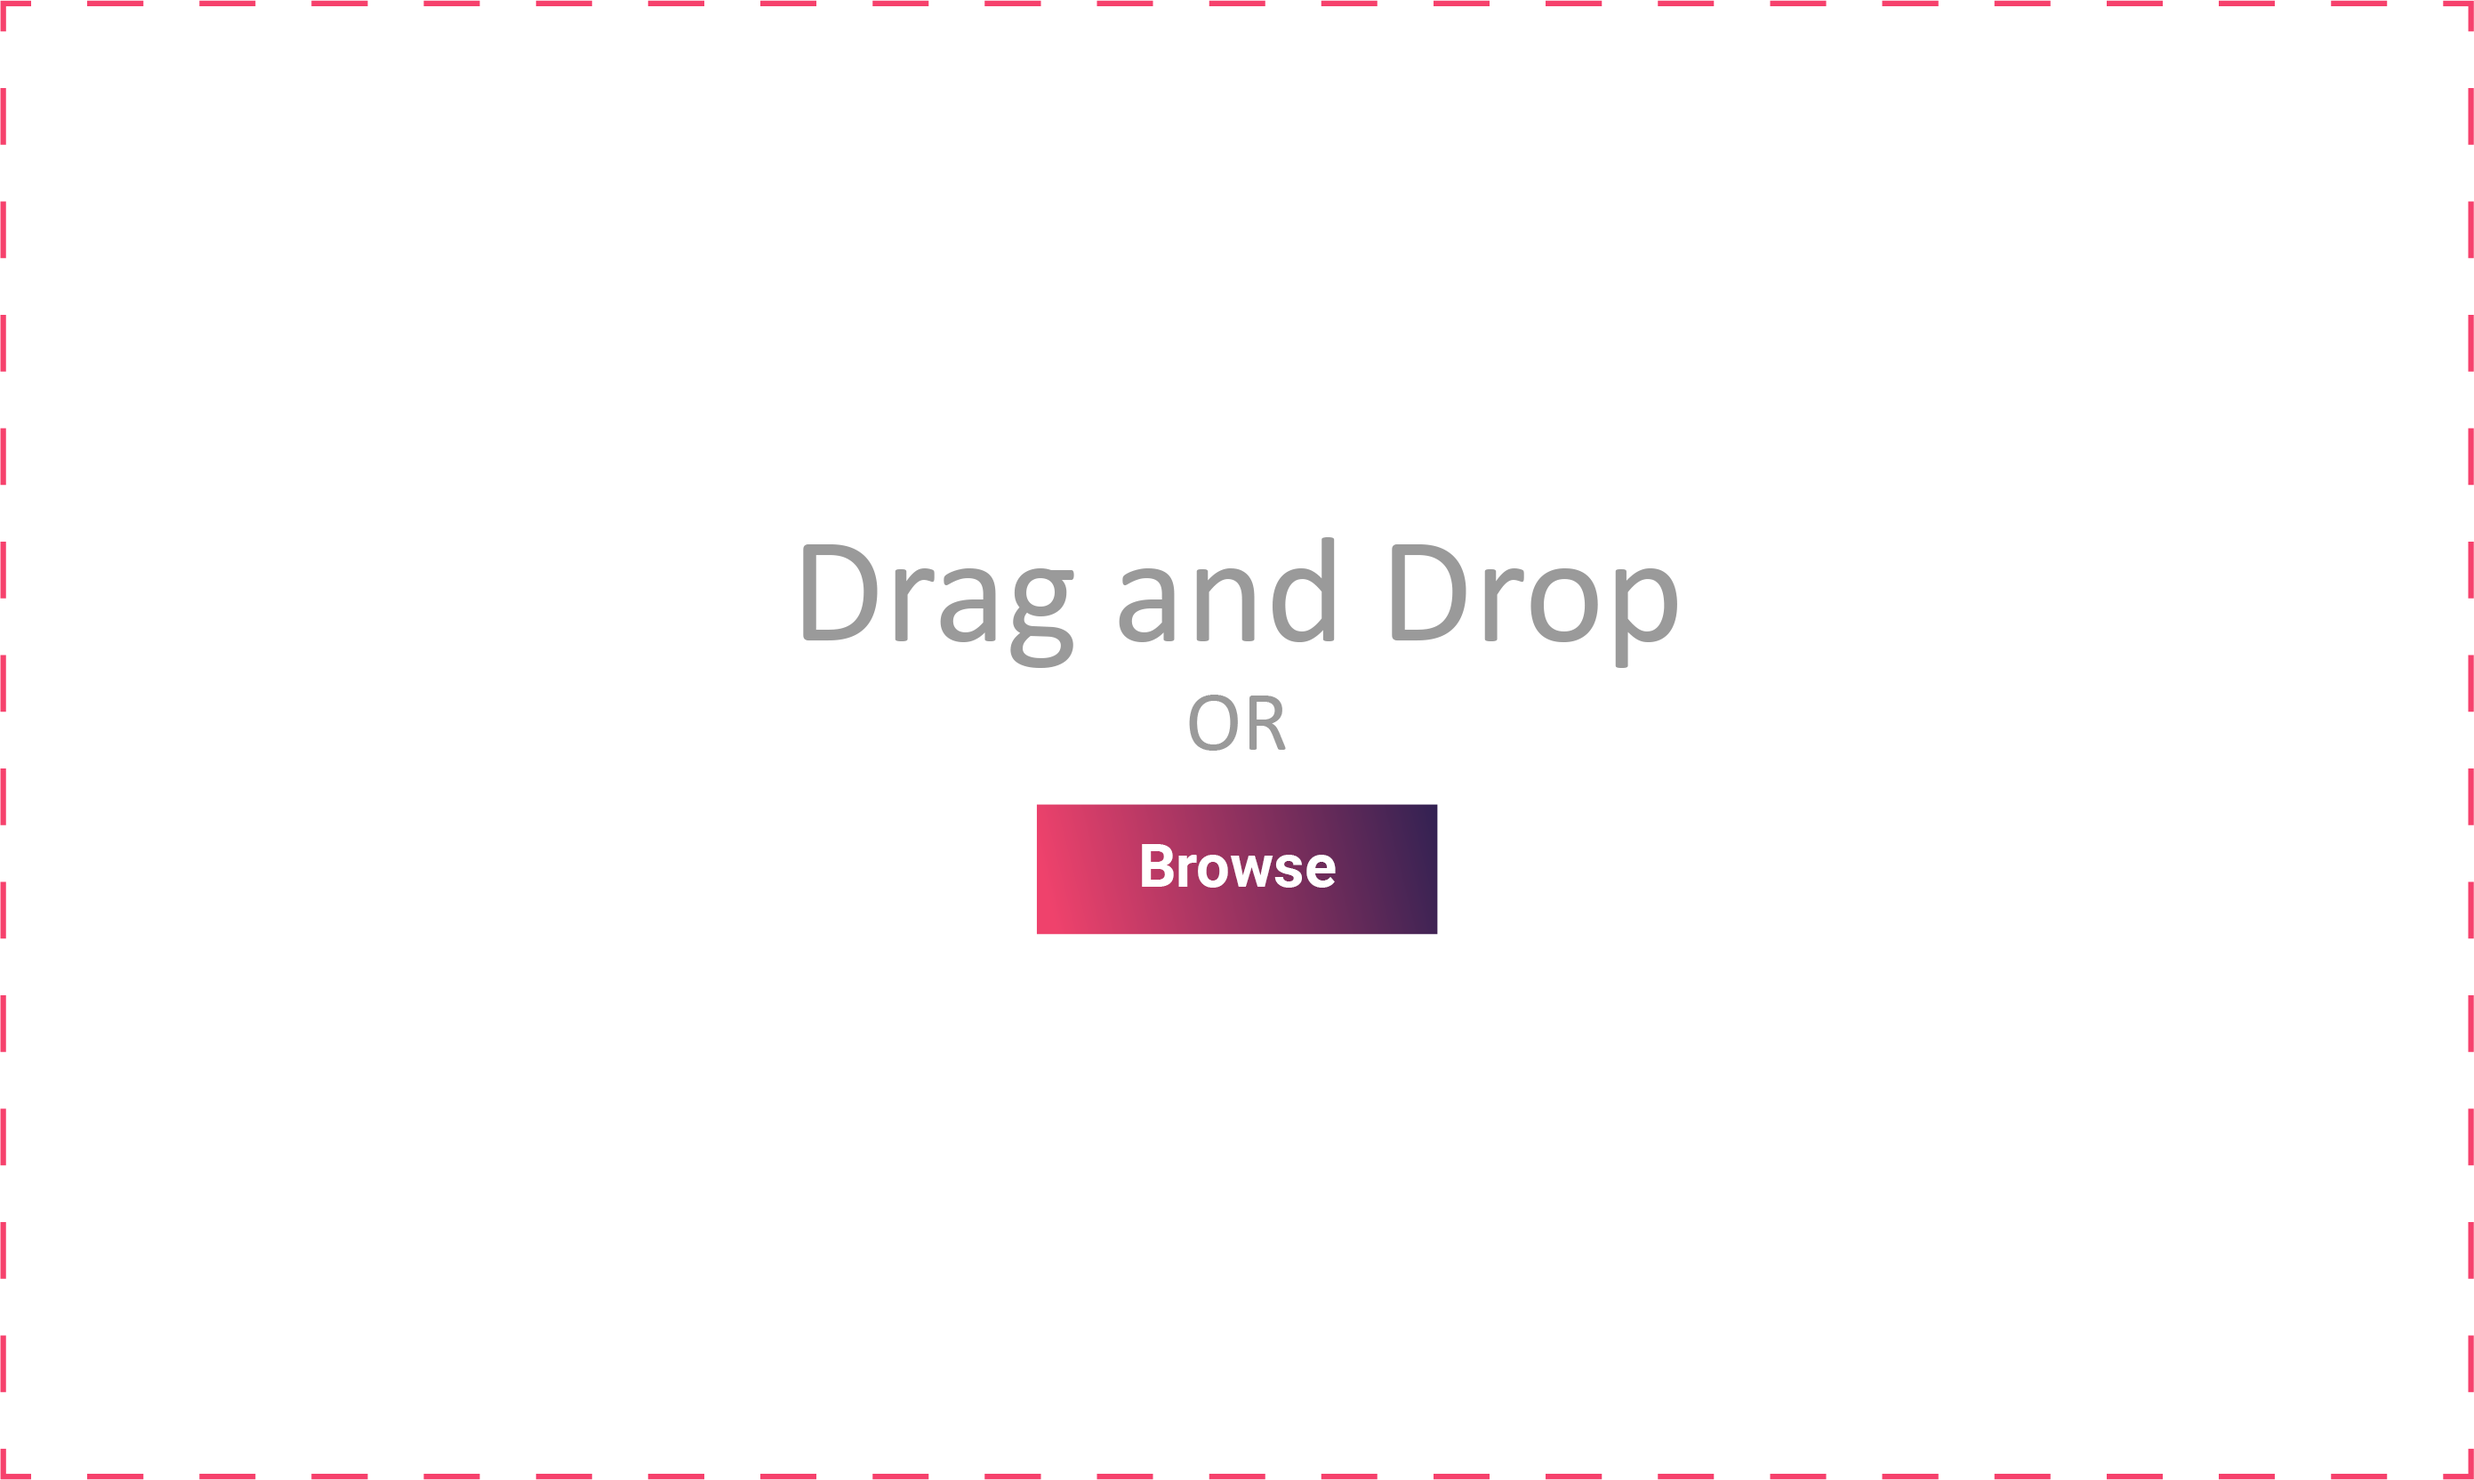
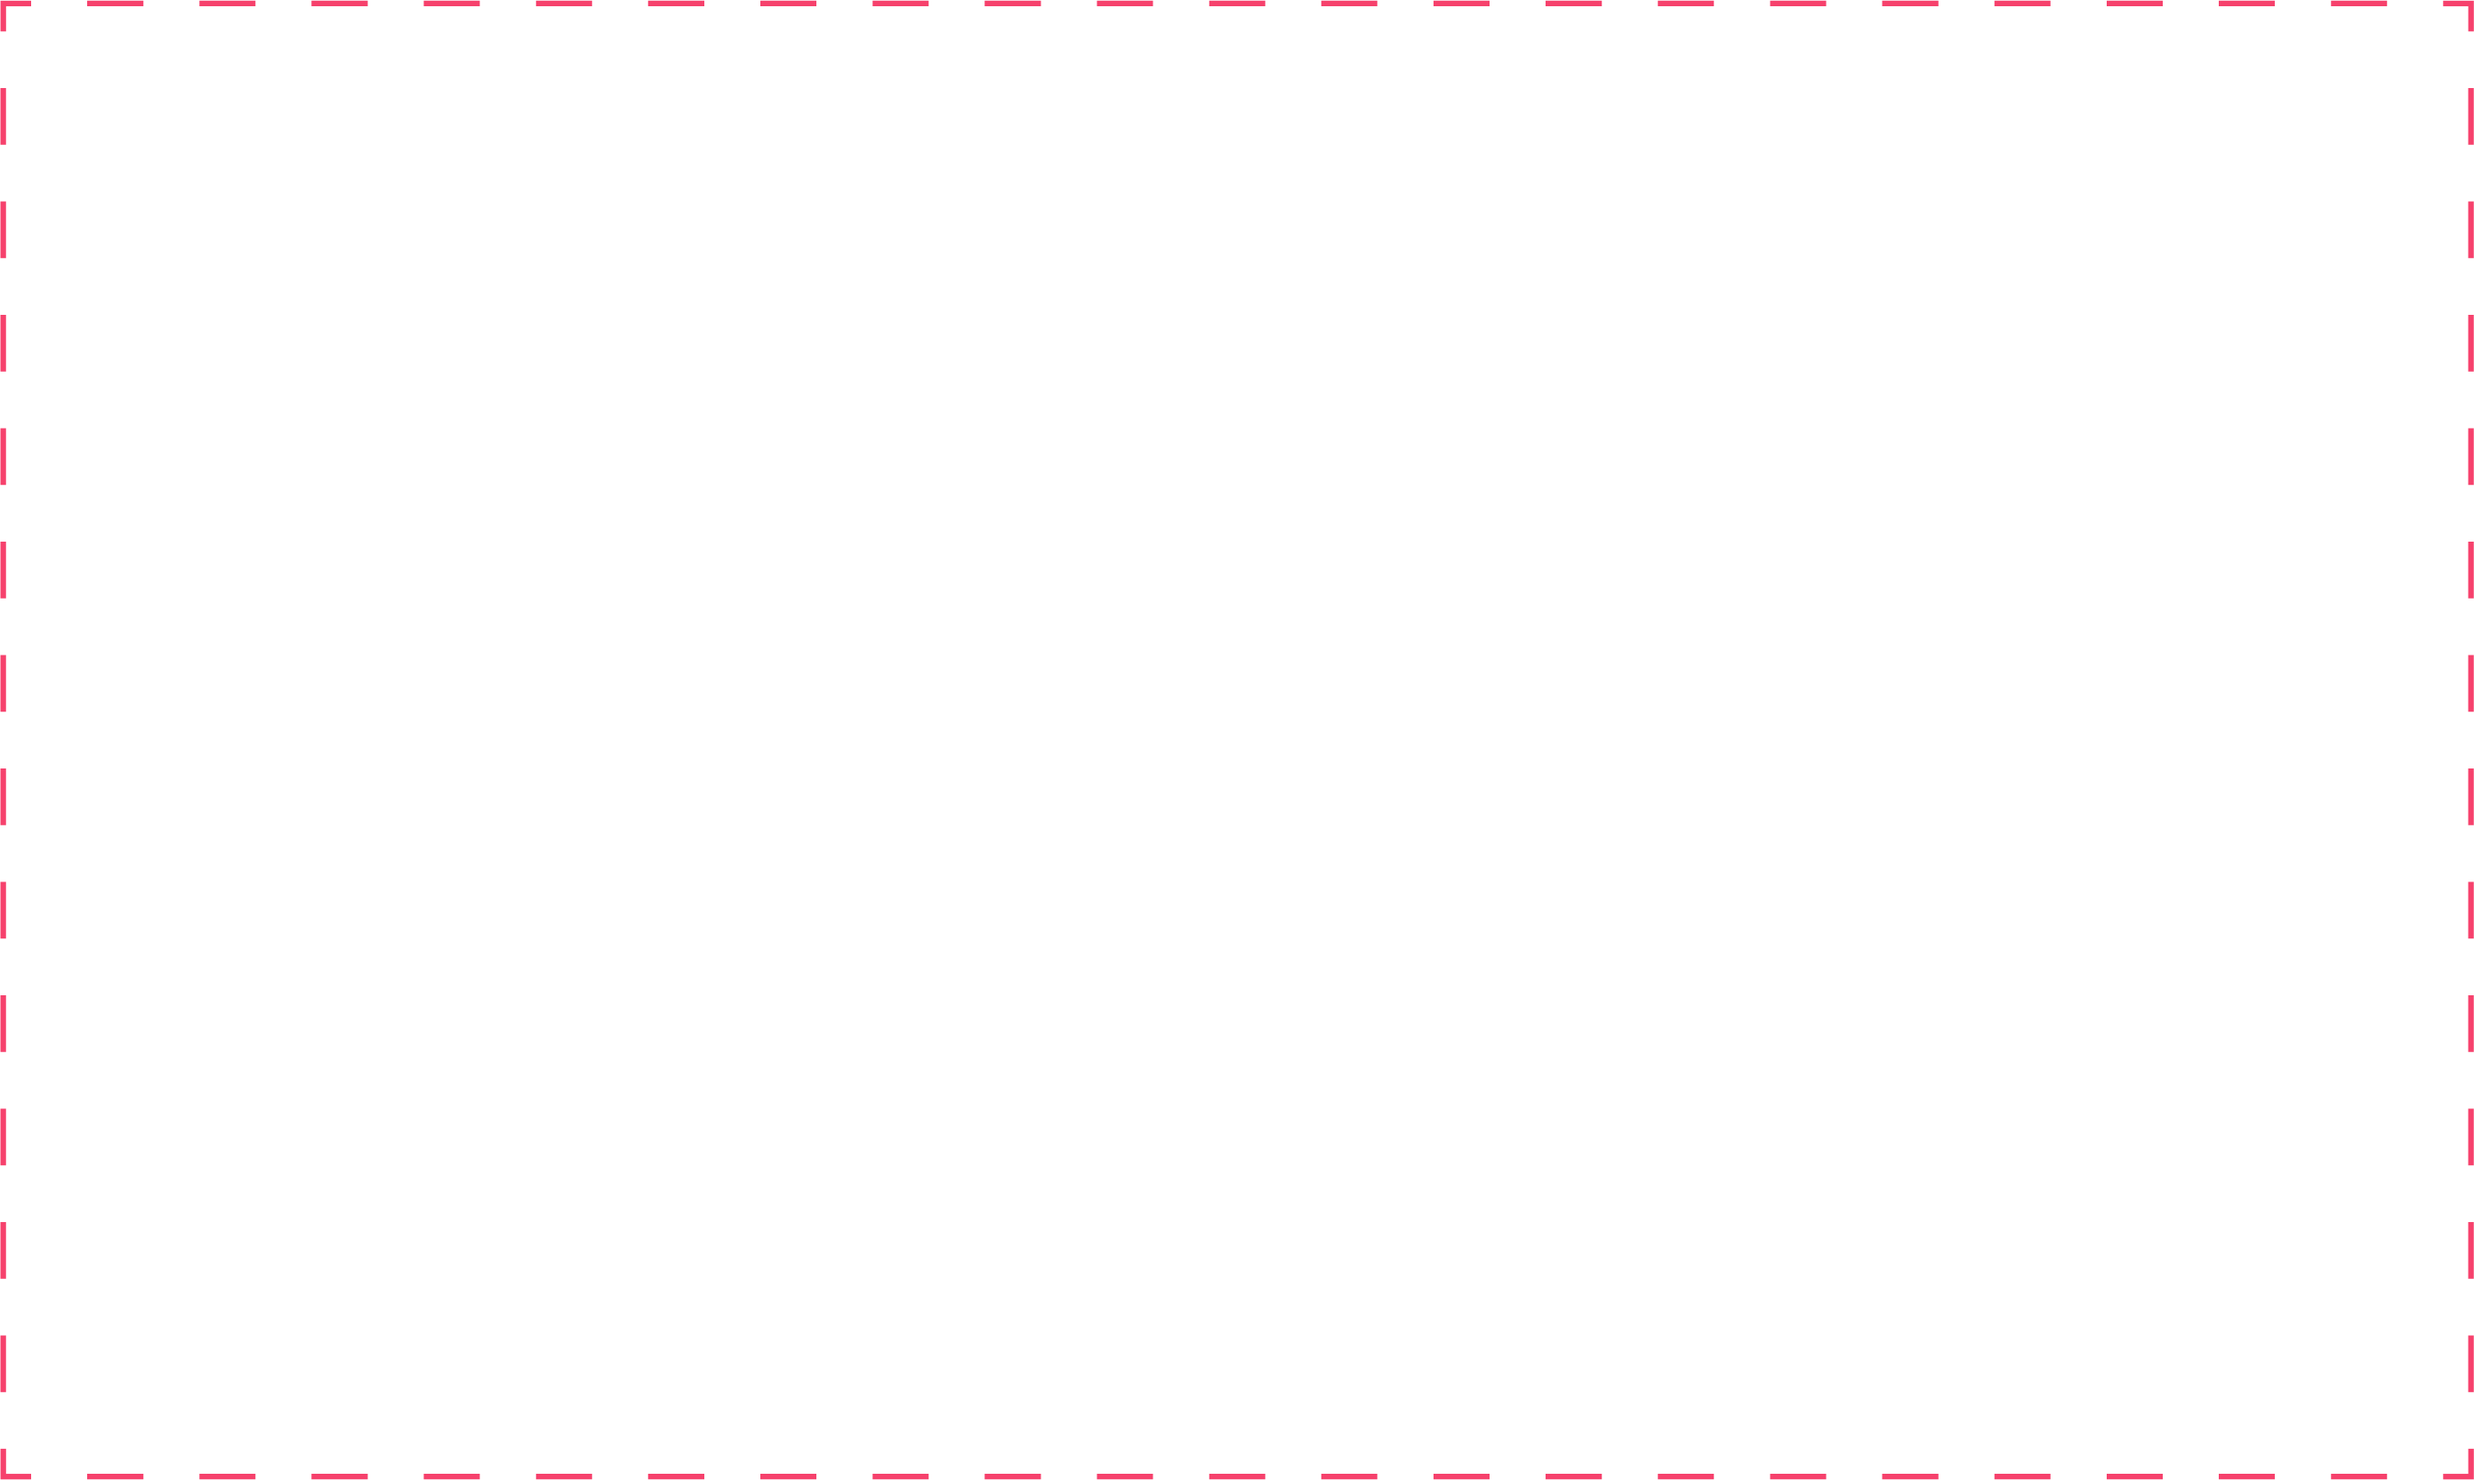
Step11

Changed region(s): [[0.3091, 0.3438, 0.6801, 0.4688], [0.4019, 0.5312, 0.5873, 0.6562], [0.4637, 0.4688, 0.5255, 0.5]]

diff --git a/src/components/listing-create.js b/src/components/listing-create.js
@@ -273,6 +273,14 @@ class ListingCreate extends Component {
     }
 
     componentWillMount() {
+
+        guestService.getGuesterInfo(window.address).then((data)=>{
+          if(data)
+            {
+                console.log(data.user)
+                this.setState({ user:data.user });
+            }
+        });
         
         this.setState({
             state:this.state.languagelist=window.languagelist,
@@ -1038,7 +1046,6 @@ class ListingCreate extends Component {
              </div>
              </div>
              </div>
-
         }
 
         {
@@ -1560,10 +1567,10 @@ class ListingCreate extends Component {
               <span className="bjpink"></span>
               <span></span>
               <span></span>
-              <p>Step 2: Set the scene</p>
+              <p>{language.Step} 2: {language.Set_the_scene}</p>
             </div>
 
-               <h1>Show travellers what your space looks like
+               <h1>{language.Show_travellers_what_your_space_looks_like}
                 <img src="../images/photoi.png" onClick={(e) => {if(this.state.Rapair == 0 )this.setState({Rapair:1});else this.setState({Rapair:0});}}/>
               </h1>
 
@@ -1571,24 +1578,24 @@ class ListingCreate extends Component {
                   <span onClick={(e) => {if(this.state.Rapair == 0 )this.setState({Rapair:1});else this.setState({Rapair:0});}}>×</span>
                   <ul>
                       <img src="../images/step2_2.png" />
-                      <li>Many hosts have at least 8 photos. You can start with just one photo and come back later to add more. Including photos of all the spaces a guest can use helps guests imagine staying at your place.</li>
+                      <li>{language.Many_hosts_have_at_least_8photos}</li>
                       <img src="../images/step2_1.png" />
-                      <li>Make sure the room is well-lit. Or take photos during daylight hours.</li>
-                      <li>Sometimes shooting from a corner (instead of straight-on) gives you a better shot.</li>
+                      <li>{language.Make_sure_the_room_is_well_lit}</li>
+                      <li>{language.Sometimes_shooting_from_a_corner}</li>
                   </ul>
               </div>
               
               <div className="photos" onChange={(e) => this.setState({step:this.STEP.Step2_2})}>
                  <div className="photosipt">
+                    <h3>{language.Drag_and_Drop}<p>{language.OR}</p><button>{language.Browse}</button></h3>
                     <img src="../images/addphoto.png" alt=""/>
                     <input className="btn btn-default btn-lg bg-pink color-white Fileipt" type="file" onChange={this.fileChangedHandler}/>
                  </div>
               </div>
-
              
             <div className="STEPBTN">
-              <button className="btn btn-default btn-lg bg-pink color-white Left" onClick={this.preStep}>Back</button>
-              <button className="btn btn-default btn-lg bg-pink color-white Right" onClick={this.nextStep}>Next</button>
+              <button className="btn btn-default btn-lg bg-pink color-white Left" onClick={this.preStep}>{language.Back}</button>
+              <button className="btn btn-default btn-lg bg-pink color-white Right" onClick={this.nextStep}>{language.Next}</button>
             </div>
              
              </div>

diff --git a/src/locale/en_US.js b/src/locale/en_US.js
@@ -185,8 +185,15 @@ export const Home_Fix = 'Home-Fix';
 export const Contact_No = 'Contact No';
 export const Email_Address = 'Email Address';
 export const Reference = 'Reference';
-
-
+//Step11
+export const Set_the_scene = 'Set the scene';
+export const Show_travellers_what_your_space_looks_like = 'Show travellers what your space looks like';
+export const Many_hosts_have_at_least_8photos = 'Many hosts have at least 8 photos. You can start with just one photo and come back later to add more. Including photos of all the spaces a guest can use helps guests imagine staying at your place.';
+export const Make_sure_the_room_is_well_lit = 'Make sure the room is well-lit. Or take photos during daylight hours.';
+export const Sometimes_shooting_from_a_corner = 'Sometimes shooting from a corner (instead of straight-on) gives you a better shot.';
+export const Drag_and_Drop = 'Drag and Drop';
+export const OR = 'OR';
+export const Browse = 'Browse';
 
 
 
@@ -332,7 +339,7 @@ export const Submit = 'Submit';
 export const state0 = 'Apply for money';
 export const state1 = 'In the coin';
 export const state2 = 'Finish the coin';
-export const state3 = 'Completed';
+export const state3 = 'Successful application';
 export const state_1 = 'Currency failure';
 
 

diff --git a/src/locale/zh_CN.js b/src/locale/zh_CN.js
@@ -185,8 +185,15 @@ export const Home_Fix = '房源-修复';
 export const Contact_No = '联系方式';
 export const Email_Address = '电子邮件地址';
 export const Reference = '参考';
-
-
+//Step11
+export const Set_the_scene = '设置场景';
+export const Show_travellers_what_your_space_looks_like = '向旅客展示你的空间';
+export const Many_hosts_have_at_least_8photos = '很多房东至少有8张照片。您一开始可以只放一张照片，之后再回来添加。展示所有房客能使用的空间的照片，让房客对在您的房源住宿有更直观的体验。';
+export const Make_sure_the_room_is_well_lit = '确保房间明亮，或者选择在白天拍摄。';
+export const Sometimes_shooting_from_a_corner = '有的时候从角落拍摄，而不是正面拍摄，可能会有更好的效果。';
+export const Drag_and_Drop = '拖放';
+export const OR = '或者';
+export const Browse = '浏览';
 
 
 
@@ -333,7 +340,7 @@ export const Submit = '提交';
 export const state0 = '申请提币';
 export const state1 = '在申请中';
 export const state2 = '完成审核';
-export const state3 = '交易成功';
+export const state3 = '申请成功';
 export const state_1 = '提币失败';
 
 

diff --git a/src/css/becomehost.css b/src/css/becomehost.css
@@ -109,7 +109,8 @@ h1,
 .Step3_13 .rightbox ul li p,
 .Step3_6 .rightbox1>div>.date span,
 .Step3_9 .box span,
-.Step3_9 .box table tr td{
+.Step3_9 .box table tr td,
+.Step2_1 .photos .photosipt>h3>button{
   font-family: RobotoBold; 
 }
 .cursor{
@@ -1070,6 +1071,27 @@ div.Strainer_Home_Type .checkbox .divinput{
   width: 300px;
   padding: 3%;
   z-index: 1;
+}
+.Step2_1 .photos .photosipt>h3{
+  position: absolute;
+  top:50%;
+  left: 50%;
+  transform: translate(-50%,-50%);
+  font-size: 7rem;
+  text-align: center;
+  margin:0;
+  background: #fff;
+}
+.Step2_1 .photos .photosipt>h3>p{
+  font-size: 3rem;
+}
+.Step2_1 .photos .photosipt>h3>button{
+  font-size: 3rem;
+  background: linear-gradient(to right, #e9406a ,#2b2051);
+  border:none;
+  border-radius: 0;
+  color: #fff;
+  padding: 8px 70px;
 }
 .Step2_2 .photos .photosimg,.Step2_2 .photos .photosipt{
   width: 31.1%;

diff --git a/src/services/pps-service.js b/src/services/pps-service.js
@@ -79,15 +79,15 @@ class PPSService {
   getDepositBalance(id){
     
       return new Promise((resolve, reject) => {
-            axios.get(process.env.Server_Address+'deposit/'+id)
-            .then(function (response) {
-            resolve(response);
-            })
-            .catch(function (error) {
-            console.error(error);
-            reject(error);
-            });
+          axios.get(process.env.Server_Address+'deposit/'+id)
+          .then(function (response) {
+          resolve(response);
+          })
+          .catch(function (error) {
+          console.error(error);
+          reject(error);
           });
+      });
   }
 
  getWithdrawInfo(account){

diff --git a/src/components/house-step1.js b/src/components/house-step1.js
@@ -1,5 +1,6 @@
 import React, { Component } from 'react';
 import languageService from '../services/language-service';
+import guestService from '../services/guest-service';
 
 class House_step1 extends Component {
 
@@ -21,6 +22,13 @@ class House_step1 extends Component {
   }
 
   componentWillMount(){
+    guestService.getGuesterInfo(window.address).then((data)=>{
+      if(data)
+        {
+            console.log(data.user)
+            this.setState({ user:data.user });
+        }
+    });
     this.setState({
         state:this.state.languagelist=window.languagelist,
         account: window.address,

diff --git a/src/components/walletWithdraw.js b/src/components/walletWithdraw.js
@@ -91,15 +91,11 @@ class WalletWithdraw extends React.Component {
     });
 
     var deleId = this.state.withdrawlist[index].id;
-    ppsService.deleWithdraw(deleId).then((data)=>{
-      console.log(data);
-    });
-
-
+    ppsService.deleWithdraw(deleId);
   }
 
   Withdraw(index){
-
+    console.log(this.state.withdrawlist[index].size)
   }
 
   openModal() {

diff --git a/src/components/guest-info.js b/src/components/guest-info.js
@@ -96,7 +96,7 @@ class GuestInfo extends React.Component {
   onGetDepositBalance = () =>{
      ppsService.getDepositBalance(window.address)
      .then((data)=>{
-      console.log(data.data.balance)
+        console.log(data.data.balance)
         this.setState({ ppsDeposited : data.data.balance});
      });
   }

diff --git a/src/css/Modal.css b/src/css/Modal.css
@@ -100,7 +100,10 @@
   padding: 2% 0;
 }
 .userBox .userbtn{
-  margin-top: 1%;
+  margin-top: 0.8%;
+}
+.userBox .userbtn>div{
+  margin-left: 15%;
 }
 .userBox span{
   font-family: RobotoBold; 
